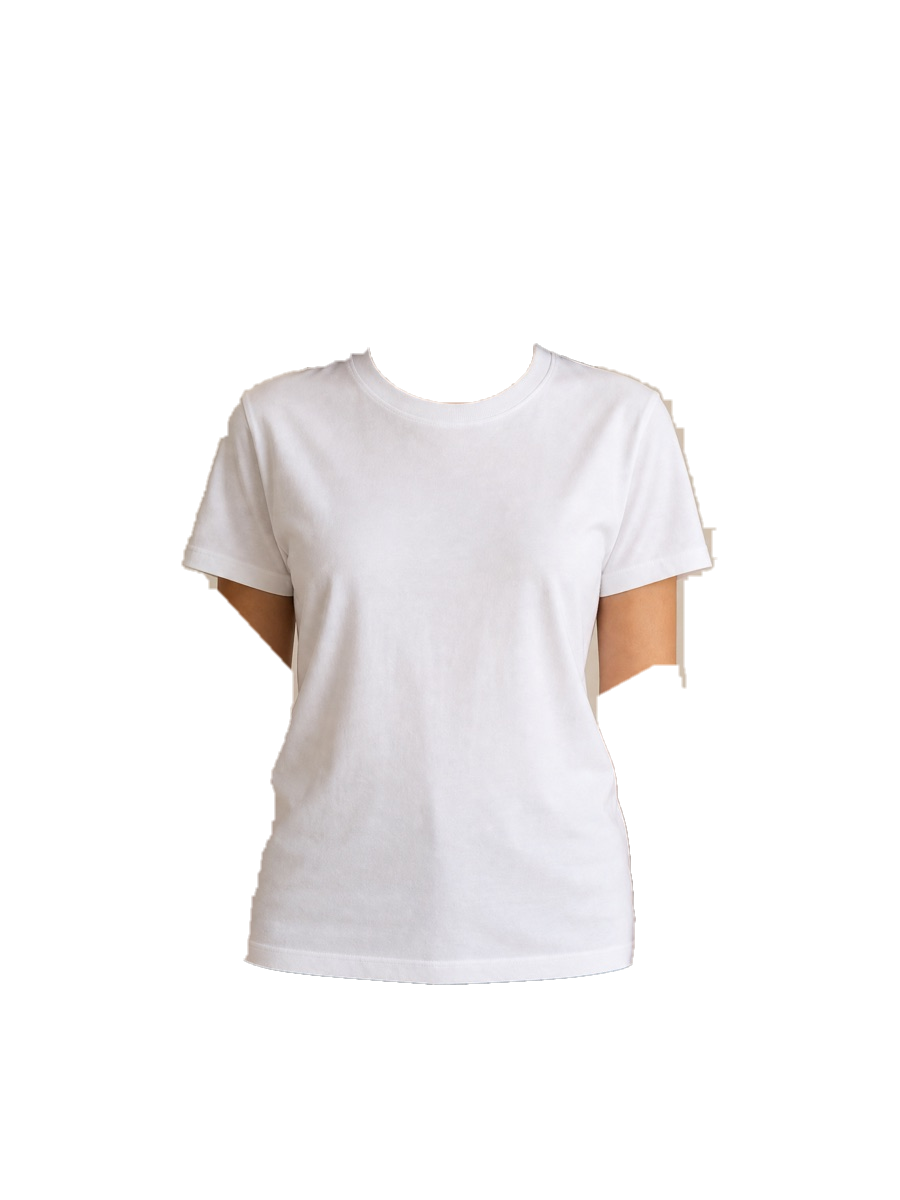
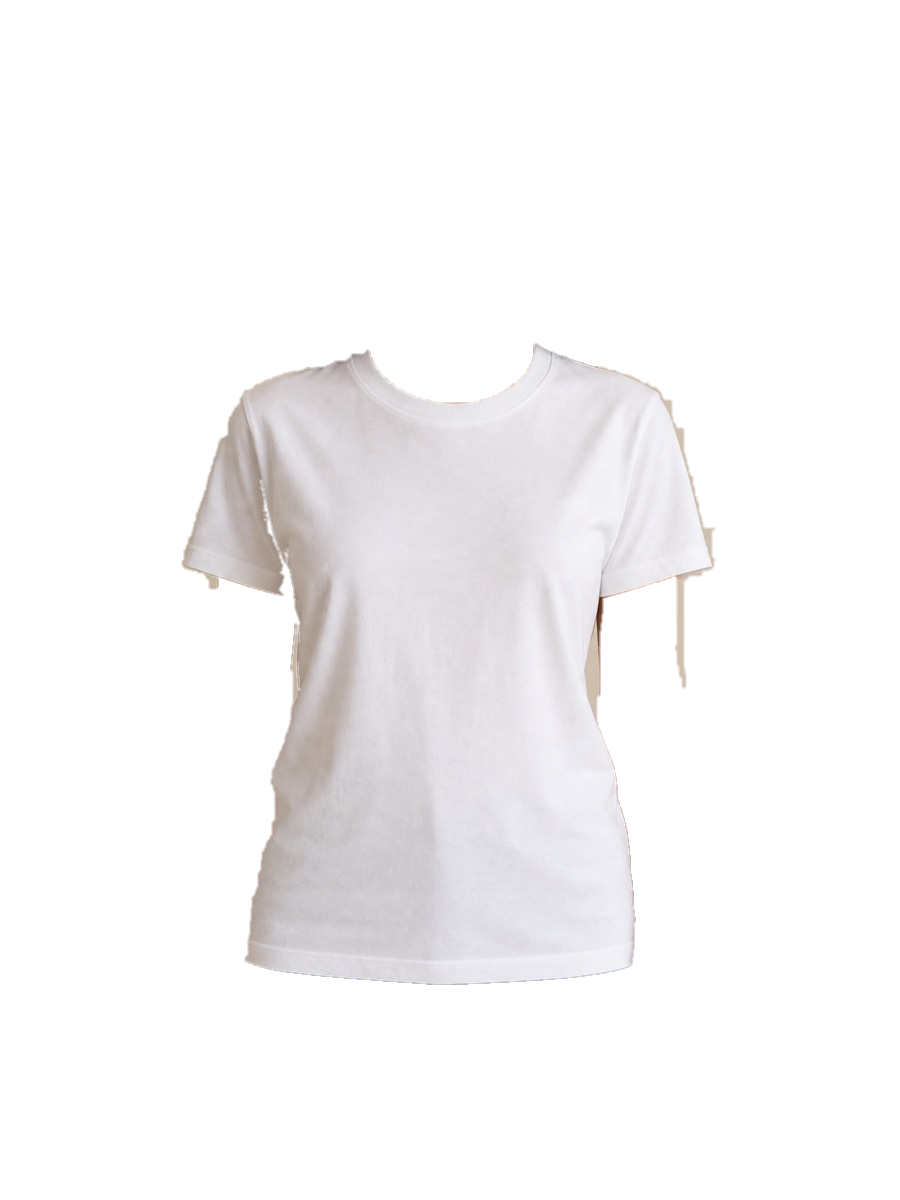
Fix women's model photo dark patch, add studio zoom control, polish homepage
- cut-model-women.png: exclude two region-bounded defect classes (right-side
  arm-skin bleed from shadow-color ambiguity, left-side underarm bleed into
  a too-dark-for-multiply-blend region left by old mask closing) instead of
  the prior "acceptable residual" — verified clean on both sides via
  realistic tinted renders
- design page: add a 50-150% view zoom control and a 4th roadmap item in
  ToolRail, closer to Gelato's own design-studio richness
- homepage: icon badges on the features strip, closing CTA band before the
  footer

Changed region(s): [[0.6533, 0.4625, 0.7778, 0.5858], [0.2178, 0.4625, 0.3422, 0.555], [0.28, 0.4008, 0.3111, 0.4625]]

diff --git a/app/page.tsx b/app/page.tsx
@@ -5,10 +5,43 @@ import { LogoMark } from "@/components/Logo";
 const CHECKS = ["בלי עלות התחלה", "בלי מינימום הזמנה", "משלוח מהיר ואמין"];
 
 const FEATURES = [
-  { title: "עורך עיצוב קל", desc: "גוררים, מגדילים ומסובבים — בלי ניסיון קודם" },
-  { title: "6 צבעים ומידות", desc: "S עד XXL, לגברים, נשים וילדים" },
-  { title: "משלוח מהיר", desc: "מדפיסים ושולחים תוך ימים בודדים" },
-  { title: "איכות מובטחת", desc: "לא מרוצים? מחזירים כסף" },
+  {
+    title: "עורך עיצוב קל",
+    desc: "גוררים, מגדילים ומסובבים — בלי ניסיון קודם",
+    icon: (
+      <path d="M4 20l1-4L16 5l3 3L8 19l-4 1Z" stroke="white" strokeWidth="1.6" strokeLinejoin="round" fill="none" />
+    ),
+  },
+  {
+    title: "6 צבעים ומידות",
+    desc: "S עד XXL, לגברים, נשים וילדים",
+    icon: <circle cx="12" cy="12" r="7" stroke="white" strokeWidth="1.6" fill="none" />,
+  },
+  {
+    title: "משלוח מהיר",
+    desc: "מדפיסים ושולחים תוך ימים בודדים",
+    icon: (
+      <>
+        <path d="M3 7h10v9H3z" stroke="white" strokeWidth="1.6" fill="none" />
+        <path d="M13 10h4l3 3v3h-7z" stroke="white" strokeWidth="1.6" fill="none" />
+        <circle cx="7" cy="18" r="1.6" stroke="white" strokeWidth="1.3" fill="none" />
+        <circle cx="17" cy="18" r="1.6" stroke="white" strokeWidth="1.3" fill="none" />
+      </>
+    ),
+  },
+  {
+    title: "איכות מובטחת",
+    desc: "לא מרוצים? מחזירים כסף",
+    icon: (
+      <path
+        d="M12 3l7 3v5c0 4.5-3 7.5-7 9-4-1.5-7-4.5-7-9V6l7-3Z"
+        stroke="white"
+        strokeWidth="1.6"
+        strokeLinejoin="round"
+        fill="none"
+      />
+    ),
+  },
 ];
 
 const STEPS = [
@@ -107,7 +140,12 @@ export default function HomePage() {
         <div className="border-t border-white/10">
           <div className="max-w-[1200px] mx-auto px-4 md:px-6 py-10 grid grid-cols-2 md:grid-cols-4 gap-8">
             {FEATURES.map((f) => (
-              <div key={f.title} className="text-center lg:text-right">
+              <div key={f.title} className="flex flex-col items-center lg:items-end text-center lg:text-right">
+                <div className="h-10 w-10 rounded-full brand-gradient-bg flex items-center justify-center mb-3 shrink-0">
+                  <svg width="20" height="20" viewBox="0 0 24 24" fill="none" aria-hidden="true">
+                    {f.icon}
+                  </svg>
+                </div>
                 <h3 className="font-semibold text-white text-sm md:text-base">{f.title}</h3>
                 <p className="text-xs md:text-sm text-neutral-500 mt-1">{f.desc}</p>
               </div>
@@ -179,6 +217,26 @@ export default function HomePage() {
               <p className="text-xs text-neutral-400 mt-1">בקרוב</p>
             </div>
           </div>
+        </div>
+      </section>
+
+      {/* Closing CTA */}
+      <section className="bg-[#0a0a0f] relative overflow-hidden">
+        <div
+          className="absolute inset-0 opacity-30 pointer-events-none"
+          style={{ background: "radial-gradient(circle at 50% 0%, #8b5cf6, transparent 60%)" }}
+        />
+        <div className="relative max-w-[700px] mx-auto px-4 md:px-6 py-16 md:py-20 text-center">
+          <h2 className="text-3xl md:text-4xl font-extrabold text-white">
+            מוכנים לעצב <span className="brand-gradient-text">חולצה משלכם?</span>
+          </h2>
+          <p className="mt-4 text-neutral-400">מעלים עיצוב, בוחרים צבע ומידה — אנחנו מדפיסים ושולחים עד הבית.</p>
+          <Link
+            href="/design"
+            className="mt-8 inline-flex items-center justify-center h-12 px-10 rounded-md brand-gradient-bg text-white text-base font-semibold hover:brightness-110 transition-all"
+          >
+            התחילו לעצב בחינם
+          </Link>
         </div>
       </section>
     </div>

diff --git a/app/design/page.tsx b/app/design/page.tsx
@@ -62,6 +62,7 @@ export default function DesignPage() {
   const [view, setView] = useState<"flat" | "model">("flat");
   const [error, setError] = useState<string | null>(null);
   const [submitting, setSubmitting] = useState(false);
+  const [zoomPct, setZoomPct] = useState(100);
 
   const frontCanvasRef = useRef<ShirtDesignerCanvasHandle>(null);
   const backCanvasRef = useRef<ShirtDesignerCanvasHandle>(null);
@@ -271,7 +272,10 @@ export default function DesignPage() {
           </div>
 
           <div className="flex-1 flex flex-col items-center justify-center gap-4 px-4 py-8 md:py-12">
-            <div className="rounded-2xl bg-[#141419] ring-1 ring-white/10 shadow-2xl p-4 md:p-6">
+            <div
+              style={{ transform: `scale(${zoomPct / 100})` }}
+              className="transition-transform duration-150 rounded-2xl bg-[#141419] ring-1 ring-white/10 shadow-2xl p-4 md:p-6"
+            >
               <div className={view === "flat" && side === "front" ? "" : "hidden"}>
                 <ShirtDesignerCanvas
                   ref={frontCanvasRef}
@@ -301,6 +305,28 @@ export default function DesignPage() {
                 />
               )}
             </div>
+
+            {view === "flat" && (
+              <div className="flex items-center gap-1 bg-white/5 border border-white/10 rounded-lg px-1.5 py-1">
+                <button
+                  type="button"
+                  onClick={() => setZoomPct((z) => Math.max(50, z - 10))}
+                  aria-label="הקטן תצוגה"
+                  className="h-7 w-7 rounded text-white hover:bg-white/10 transition-colors"
+                >
+                  −
+                </button>
+                <span className="text-sm text-neutral-300 tabular-nums w-11 text-center">{zoomPct}%</span>
+                <button
+                  type="button"
+                  onClick={() => setZoomPct((z) => Math.min(150, z + 10))}
+                  aria-label="הגדל תצוגה"
+                  className="h-7 w-7 rounded text-white hover:bg-white/10 transition-colors"
+                >
+                  +
+                </button>
+              </div>
+            )}
 
             {view === "model" ? (
               <p className="text-sm text-neutral-500 text-center">

diff --git a/components/design/ToolRail.tsx b/components/design/ToolRail.tsx
@@ -3,6 +3,7 @@
 const ROADMAP_TOOLS = [
   { icon: "🔤", label: "טקסט" },
   { icon: "◇", label: "צורות ואייקונים" },
+  { icon: "🖼", label: "גלריית גרפיקות" },
   { icon: "🎨", label: "תבניות מוכנות" },
 ];
 
